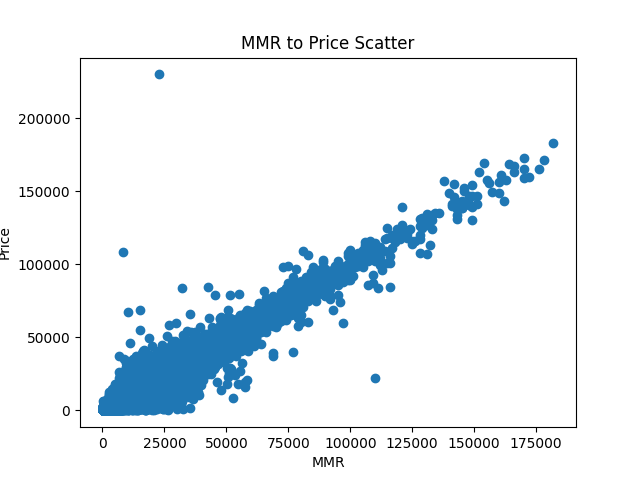
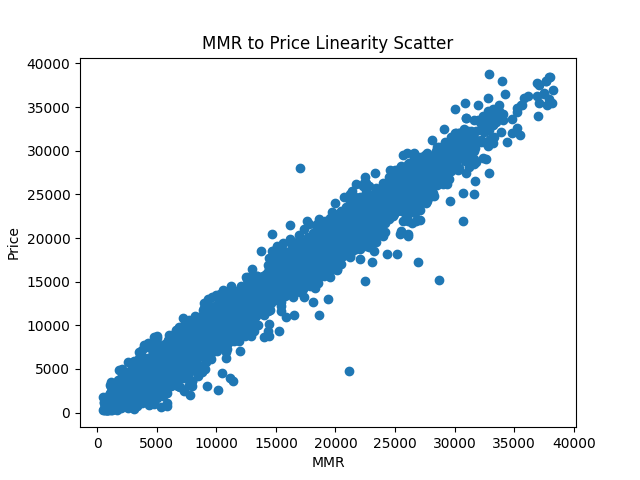
Change plotting, add SVM.

diff --git a/Final Project/plotting.py b/Final Project/plotting.py
@@ -7,13 +7,14 @@ import seaborn
 def plot_for_linearity(path):
     data = pandas.read_csv(path)
 
+    data = data[data['make'].str.contains("acura")]
     y = data['sellingprice']
 
     # Year-To-Price Scatter
     plt.scatter(data['year'], y)
     plt.xlabel('Year')
     plt.ylabel('Price')
-    plt.title('Year to Price Scatter')
+    plt.title('Year to Price Linearity Scatter')
     plt.savefig('images/year_to_price.png')
     plt.close()
 
@@ -21,7 +22,7 @@ def plot_for_linearity(path):
     plt.scatter(data['condition'], y)
     plt.xlabel('Condition')
     plt.ylabel('Price')
-    plt.title('Condition to Price Scatter')
+    plt.title('Condition to Price Linearity Scatter')
     plt.savefig('images/condition_to_price.png')
     plt.close()
 
@@ -29,7 +30,7 @@ def plot_for_linearity(path):
     plt.scatter(data['odometer'], y)
     plt.xlabel('Odometer')
     plt.ylabel('Price')
-    plt.title('Odometer to Price Scatter')
+    plt.title('Odometer to Price Linearity Scatter')
     plt.savefig('images/odometer_to_price.png')
     plt.close()
 
@@ -37,7 +38,7 @@ def plot_for_linearity(path):
     plt.scatter(data['mmr'], y)
     plt.xlabel('MMR')
     plt.ylabel('Price')
-    plt.title('MMR to Price Scatter')
+    plt.title('MMR to Price Linearity Scatter')
     plt.savefig('images/mmr_to_price.png')
     plt.close()
 
@@ -46,6 +47,7 @@ def plot_heatmap(path):
     data = pandas.read_csv(path)
     corr = data.corr()
     seaborn.heatmap(corr, annot=True, cmap='RdYlGn')
+    plt.title('Correlation Coefficient Heatmap')
     plt.savefig('images/heatmap.png')
     plt.close()
 

diff --git a/Final Project/preprocess.py b/Final Project/preprocess.py
@@ -1,3 +1,4 @@
+import matplotlib.pyplot as plt
 import pandas
 import numpy as np
 
@@ -30,6 +31,14 @@ def trim_raw_data(path):
     data = data[np.abs(data.sellingprice - data.sellingprice.mean()) <= (3 * data.sellingprice.std())]
     data = data[np.abs(data.odometer - data.odometer.mean()) <= (3 * data.odometer.std())]
     data = data[np.abs(data.mmr - data.mmr.mean()) <= (3 * data.mmr.std())]
+
+    # Histogram of no outliers
+    plt.hist(data['sellingprice'], bins=75)
+    plt.xlabel('Used Vehicle Sale Price')
+    plt.ylabel('Frequency of Sale Price')
+    plt.title('Sale Price Frequency After Preprocessing')
+    plt.savefig('images/preprocessing.png')
+    plt.close()
 
     data.to_csv(TRIMMED_DATA_PATH, index=False)
 

diff --git a/Final Project/SVM.py b/Final Project/SVM.py
@@ -1,7 +1,9 @@
 from preprocess import *
 import time
 from sklearn.model_selection import train_test_split
-from sklearn.linear_model import LinearRegression
+from sklearn.pipeline import make_pipeline
+from sklearn.preprocessing import StandardScaler
+from sklearn.svm import LinearSVR
 from sklearn.metrics import mean_squared_error, r2_score
 from math import sqrt
 
@@ -11,7 +13,7 @@ data = generate_one_hot_data(TRIMMED_DATA_PATH)
 x = data.drop(columns=['sellingprice'])
 y = data['sellingprice']
 
-model = LinearRegression()
+model = make_pipeline(StandardScaler(), LinearSVR(tol=.075))
 x_train, x_test, y_train, y_test = train_test_split(x, y, test_size=0.10, random_state=0)
 
 model.fit(x_train, y_train)
